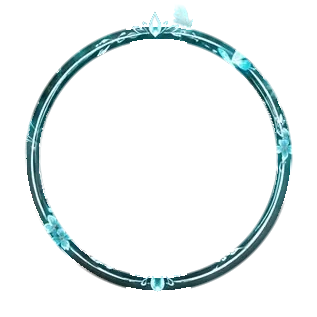
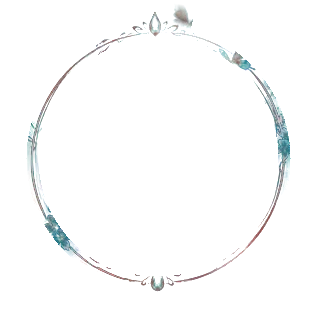
Kaydırınca yanlışlıkla sekme değişmesin, takılan ürün hemen görünsün, çerçevelerin arka planı temizlendi
- ux.js: sekme değiştirme sadece ekranın sol/sağ kenarından başlayan kaydırmada;
  kitap halkası, şeritler, oyunlar ve kayan listelerde hiç sekme değişmez
- magaza.js: Mağaza'dan takılan banner çerçevesi / profil teması / profil çerçevesi
  sayfayı yenilemeden profilde görünür
- cerceveler/: 7 banner çerçevesi ve halkaları yeniden ayıklandı; çerçevenin çevresinde
  kalan koyu pus, gölge ve resim parçaları silindi

Claude-Session: https://claude.ai/code/session_01SfFXM96gh6BQfPQ3zNvDDi

Changed region(s): [[0.0568, 0.0, 0.9369, 0.9369]]

diff --git a/ux.js b/ux.js
@@ -2,7 +2,8 @@
    UX: Instagram tarzı dokunma ve kaydırma hissi
    - Butonlara basınca küçülür, bırakınca yaylanarak geri gelir.
      Çok hızlı basılsa bile animasyon en az MIN_PRESS ms görünür.
-   - Ekranda sağa/sola kaydırınca sekmeler (Ana Sayfa, Manga, ...) arasında geçilir.
+   - Ekranın SOL / SAĞ KENARINDAN kaydırınca sekmeler (Ana Sayfa, Hikâyeler, ...) arasında geçilir.
+     Ekranın ortasında kaydırmak sekme değiştirmez: kitap halkası, listeler, oyunlar rahatça çevrilir.
      Parmakla birlikte hareket eder, yeterince çekilirse sekme değişir.
    - Sekme değişirken yeni sayfa geldiği yönden kayarak girer.
    - app.html'de, </body>'den hemen önce şu satır olmalı:
@@ -13,7 +14,8 @@
 (function () {
   var MIN_PRESS = 140;      // ms: basılı görüntü en az bu kadar kalsın
   var SCALE = .93;          // basılınca küçülme oranı
-  var SWIPE_MIN = 70;       // px: sekme değişmesi için gereken çekme
+  var SWIPE_MIN = 90;       // px: sekme değişmesi için gereken çekme
+  var EDGE = 28;            // px: kaydırma ekranın bu kadar kenarından başlamalı
   var VIBRATE = 8;          // ms: Android'de hafif titreşim (0 = kapalı)
 
   /* ---------- CSS ---------- */
@@ -95,11 +97,11 @@
   function blocked(target) {
     if (!target || !target.closest) return true;
     if (document.querySelector('.st.on, .mg-rd.on, .mg2-sh.on')) return true;      // açık panel / okuyucu / mağaza detayı
-    if (target.closest('input,textarea,select,video,[contenteditable],.agc,.ag,.dock,.ch-log,.fr-list,.bio-fonts,.ux-noswipe')) return true;
+    if (target.closest('input,textarea,select,video,canvas,[contenteditable],[draggable="true"],.agc,.ag,.dock,.ch-log,.fr-list,.bio-fonts,.mg-belt,.mg-track,.ux-noswipe')) return true;
     for (var n = target; n && n !== document.body; n = n.parentElement) {          // yatay kayan listeler (türler vb.)
       if (n.scrollWidth > n.clientWidth + 4) {
         var ox = getComputedStyle(n).overflowX;
-        if (ox === 'auto' || ox === 'scroll') return true;
+        if (ox === 'auto' || ox === 'scroll' || ox === 'hidden') return true;   // kayan / dönen şeritler
       }
     }
     return false;
@@ -109,7 +111,7 @@
   document.addEventListener('touchstart', function (e) {
     if (e.touches.length !== 1) { ok = false; return; }
     var t = e.touches[0];
-    ok = !blocked(e.target); sx = t.clientX; sy = t.clientY; dx = 0; mode = ''; view = curView();
+    ok = (t.clientX <= EDGE || t.clientX >= innerWidth - EDGE) && !blocked(e.target); sx = t.clientX; sy = t.clientY; dx = 0; mode = ''; view = curView();
     if (view) view.classList.remove('ux-snap');
   }, { passive: true });
 

diff --git a/magaza.js b/magaza.js
@@ -220,9 +220,11 @@ import { supabase } from './config.js';
   });
   // profilde açık olan modüllerin önbelleğini güncelle: sayfayı yenilemeden yeni seçim görünür
   function notifySaved(tur, v) {
-    if (tur === 'cerceve' && window.__lefCerceve) window.__lefCerceve.saved(uid, v);
-    if (tur === 'tema' && window.__lefTema) window.__lefTema.saved(uid, v);
-    if (tur === 'pcer' && window.__lefPcer) { window.__lefPcer.saved(uid, v); var P0 = window.__lefProfile; if (P0 && P0.id === uid) window.__lefPcer.apply(v); }
+    // kendi profilin açıksa (ya da arka planda yüklüyse) hemen uygula: sayfayı yenilemek gerekmez
+    var P0 = window.__lefProfile, mine = !!(P0 && P0.id === uid);
+    if (tur === 'cerceve' && window.__lefCerceve) { window.__lefCerceve.saved(uid, v); if (mine) window.__lefCerceve.preview(v); }
+    if (tur === 'tema' && window.__lefTema) { window.__lefTema.saved(uid, v); if (mine) window.__lefTema.preview(v); }
+    if (tur === 'pcer' && window.__lefPcer) { window.__lefPcer.saved(uid, v); if (mine) window.__lefPcer.apply(v); }
     if (tur === 'rozet') { rozetCache[uid] = v; paintRozet(); }
   }
 
